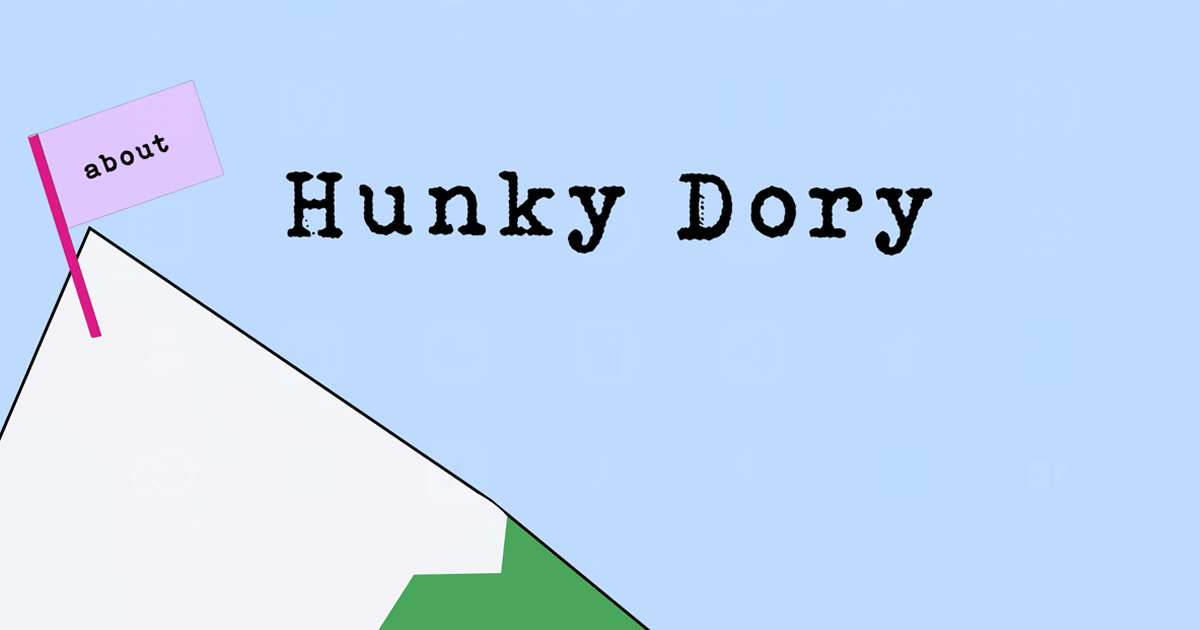
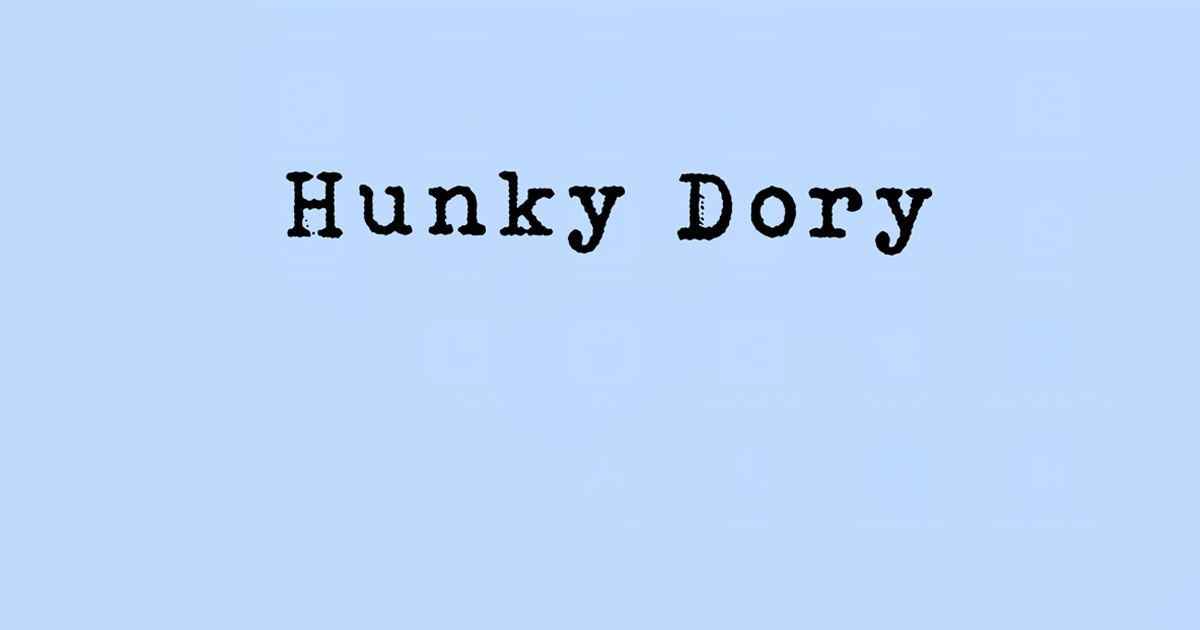
open graph change and about placement change

Changed region(s): [[0.0, 0.1206, 0.555, 1.0]]

diff --git a/src/components/Home.jsx b/src/components/Home.jsx
@@ -338,13 +338,14 @@ function Footer() {
       bottom-[1dvw] right-[1.5dvw] text-[3dvw] md:text-[2.5dvw]
       lg:text-[1.7dvw] text-right leading-relaxed mb-[1dvw] md:mb-[0]
       font-['Helvetica','Arial',sans-serif]">
-          <a style={{ cursor: `url('${BASE_URL}fish.png'), auto` }}
+          <a style={{ cursor: `url('${BASE_URL}fish.png'), auto` ,
+          fontFamily: "'Times New Roman', Times, serif" }}
           className="underline"
           href="mailto:hello@hunkydory.online">hello@hunkydory.online</a>
         <br />
         Website by{' '}
         <a href="https://github.com/nshaff3r" className="underline"
-        style={{ fontFamily: "Helvetica, Arial, sans-serif",
+        style={{ fontFamily: "'Times New Roman', Times, serif",
           cursor: `url('${BASE_URL}fish.png'), auto`
          }}>
           Nolan Shaffer
@@ -386,7 +387,7 @@ function About({ trigger, onAnimationEnd }) {
         }
       `}</style>
       <img 
-        className="absolute top-[25dvw] md:top-[5dvw] w-full z-[10]"
+        className="absolute top-[25dvw] md:top-[28dvw] w-full z-[10]"
         style={{
           right: '-100%',
           animation: trigger ? 'slide-across 10s ease-in-out forwards' : 'none',
